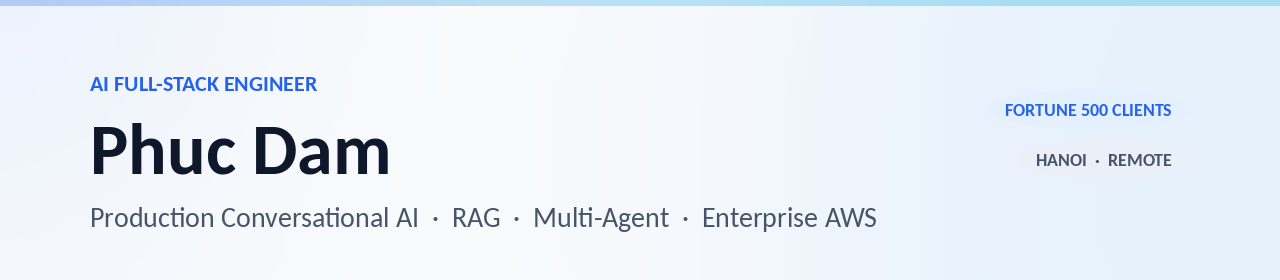
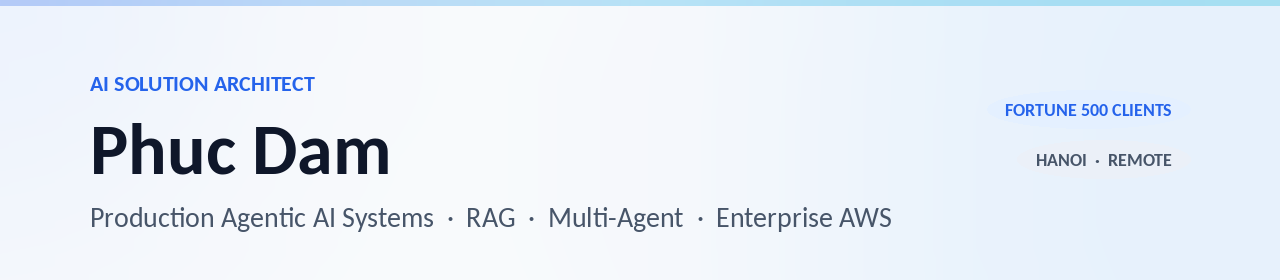
feat: reposition profile as AI Solution Architect, reorder featured work

Changed region(s): [[0.1562, 0.7429, 0.7188, 0.8286], [0.0938, 0.2571, 0.25, 0.3429]]

diff --git a/scripts/build-banner.py b/scripts/build-banner.py
@@ -82,7 +82,7 @@ def main() -> None:
     font_meta = ImageFont.truetype(FONT_BOLD, 18)
 
     # Eyebrow
-    draw.text((PAD_X, 70), "AI FULL-STACK ENGINEER", fill=ACCENT_PRIMARY, font=font_eyebrow)
+    draw.text((PAD_X, 70), "AI SOLUTION ARCHITECT", fill=ACCENT_PRIMARY, font=font_eyebrow)
 
     # Name
     draw.text((PAD_X, 105), "Phuc Dam", fill=TEXT_PRIMARY, font=font_name)
@@ -90,7 +90,7 @@ def main() -> None:
     # Tagline
     draw.text(
         (PAD_X, 200),
-        "Production Conversational AI  ·  RAG  ·  Multi-Agent  ·  Enterprise AWS",
+        "Production Agentic AI Systems  ·  RAG  ·  Multi-Agent  ·  Enterprise AWS",
         fill=TEXT_SECONDARY,
         font=font_tagline,
     )

diff --git a/README.md b/README.md
@@ -1,8 +1,8 @@
-<img src="./assets/banner.png" alt="Phuc Dam — AI Full-stack Engineer · Production Conversational AI · RAG · Multi-Agent · Enterprise AWS" />
+<img src="./assets/banner.png" alt="Phuc Dam — AI Solution Architect · Production Agentic AI Systems · RAG · Multi-Agent · Enterprise AWS" />
 
 ### Hi, I'm Phuc 👋
 
-AI Engineer focused on **shipping production Conversational AI** for enterprise clients — not notebooks, not demos. **3+ years** moving multi-agent systems and RAG pipelines from POC into **AWS-native production** with end-to-end observability, semantic caching, and PII zero-trust.
+AI Solution Architect focused on **shipping production Agentic AI Systems** for enterprise clients — not notebooks, not demos. **3+ years** moving multi-agent systems and RAG pipelines from POC into **AWS-native production** with end-to-end observability, semantic caching, and PII zero-trust.
 
 ```text
 🛠   Currently   →  Migrating HR Conversational AI for Covestro AG (Fortune 500)
@@ -18,9 +18,9 @@ AI Engineer focused on **shipping production Conversational AI** for enterprise 
 
 | Case Study | Client | Stack | Highlight |
 |---|---|---|---|
-| 🤖 [Enterprise HR Agentic Chatbot](https://maver1ch.github.io/work/hti-agentic-chatbot/) | HTI Group | LangGraph · LlamaIndex · AWS CDK | POC → enterprise AWS production |
 | 🏭 [HR Conversational AI Platform](https://maver1ch.github.io/work/fpt-hr-conversational-ai/) | Covestro AG (via FPT Software) | LangGraph · Bedrock · EventBridge · OpenSearch | Fortune 500 zero-downtime migration |
 | 📄 [AI Contract Intelligence System](https://maver1ch.github.io/work/fpt-contract-intelligence/) | FPT Software | Qdrant · Bedrock · Skill-based · Prompt Chaining | **+35% extraction accuracy** |
+| 🤖 [Enterprise HR Agentic Chatbot](https://maver1ch.github.io/work/hti-agentic-chatbot/) | HTI Group | LangGraph · LlamaIndex · AWS CDK | POC → enterprise AWS production |
 
 ---
 
